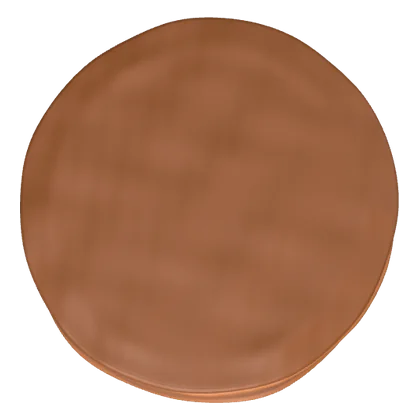
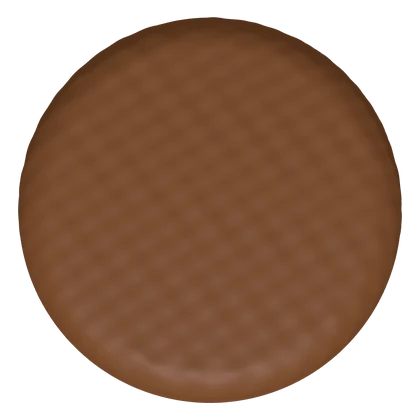
Clickly: suma Candy Pop (SWEET) y Alfajor Pop marron (ARGENTINA) con sus fotos
Claude-Session: https://claude.ai/code/session_01CakWamoGNygWeoKn5u5X5H

diff --git a/clickly/index.html b/clickly/index.html
@@ -367,9 +367,11 @@ const IMG={},IMGT={};
 const POPS=[
  {id:'base',n:'Clickly Box',line:'base',c:'#2F6FE0',ct:'Click en la tapa',d:'Una cajita cuya tapa es el clicker. El modelo base, el que siempre está.'},
  {id:'medialuna',n:'Medialuna Pop',line:'ar',c:'#5E9FDC',ct:'Click en el rollito del medio',d:'Una medialuna gordita, con sus rollitos y sus cuernos.'},
+ {id:'alfajor',n:'Alfajor Pop',line:'ar',c:'#7B4B2A',ct:'Click en la galleta de arriba',d:'Dos galletas con dulce de leche, todo marrón.',local:1},
  {id:'mate',n:'Mate Pop',line:'ar',c:'#6F9140',ct:'Click en la yerba',d:'Un mate de calabaza con su virola y la yerba arriba, con palitos. Apretás la yerba y hace clic.'},
  {id:'pancake',n:'Pancake Pop',line:'bf',c:'#E8A33D',ct:'Click en el panqueque de arriba',d:'Una pila de panqueques con almíbar y una pastillita de manteca arriba.'},
  {id:'macaron',n:'Pink Macaron Pop',line:'sweet',c:'#EF97B1',ct:'Click en la tapita de arriba',d:'Un macaron con tapitas rosa pastel y relleno blanco.'},
+ {id:'candy',n:'Candy Pop',line:'sweet',c:'#CDBFF0',ct:'Click en el medio rosa',d:'Un caramelo con su envoltorio y las puntas torcidas.',local:1},
  {id:'muffin',n:'Muffin Pop',line:'bf',c:'#F7A8C4',ct:'Click en la crema',d:'Un muffin con pirotín marrón, bizcocho y mucha crema batida rosa.',local:1},
  {id:'pan',n:'Pan Pop',line:'bf',c:'#B5712C',ct:'Click en la miga',d:'Una rebanada de pan de molde, con la miga a ras de la corteza. Apretás la miga y hace clic.',local:1},
 ];
@@ -394,7 +396,7 @@ const PRICE=3000,PBOX=14500,FREE=2,MAX=5,MAXB=5,KEY='clickly.pedido',OLDKEY='cli
 const API='https://script.google.com/macros/s/AKfycbytXWgqCYSoKk4d-IXCPy8l8VOAkVaSji5PFaJ2E286vdpWDoWcHg7TQ9ALT4pyhkw/exec',CATKEY='clickly.catalogo';
 const ENV={retiro:{n:'Retiro en persona',s:'Sin cargo. Coordinamos por mensaje.'},sucursal:{n:'Correo Argentino a sucursal',s:'Retirás en la sucursal más cercana.'},domicilio:{n:'Correo Argentino a domicilio',s:'Te lo llevan a tu casa.'}};
 let PAGO=false;
-function applyCat(cat){if(!cat||!Array.isArray(cat.productos))return false;PAGO=!!cat.pago;const byId={};cat.productos=cat.productos.filter(q=>q.linea!=='fidget'&&q.linea!=='milk'&&q.id!=='alfajor');cat.productos.forEach(q=>byId[q.id]=q);let changed=false;
+function applyCat(cat){if(!cat||!Array.isArray(cat.productos))return false;PAGO=!!cat.pago;const byId={};cat.productos=cat.productos.filter(q=>q.linea!=='fidget'&&q.linea!=='milk');cat.productos.forEach(q=>byId[q.id]=q);let changed=false;
   for(let i=POPS.length-1;i>=0;i--)if(!byId[POPS[i].id]&&!POPS[i].local&&!(POPS[i].id==='macaron'&&!cat.sembrado)){POPS.splice(i,1);changed=true}
   cat.productos.forEach(q=>{let p=POPS.find(x=>x.id===q.id);if(q.imagen&&!IMG[q.id])IMG[q.id]=q.imagen;
     if(!p){if(!IMG[q.id])return;p={id:q.id,n:q.nombre,line:LINES[q.linea]?q.linea:'base',c:q.color||'#F6884C',ct:'Hace clic arriba',d:q.descripcion||''};POPS.push(p);changed=true}
